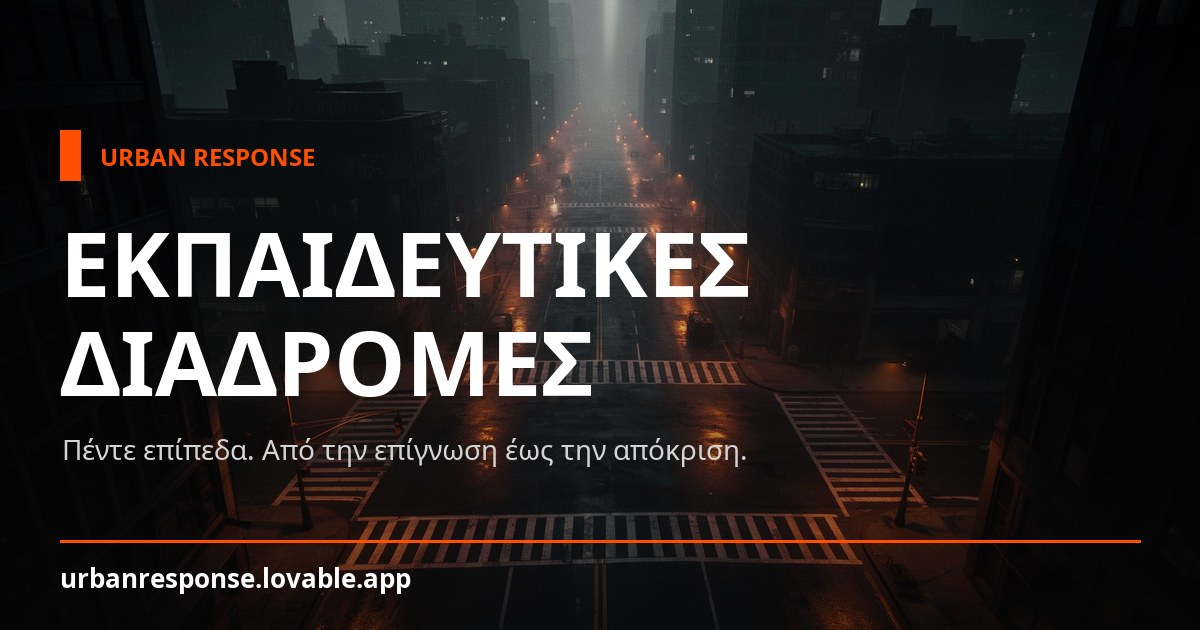
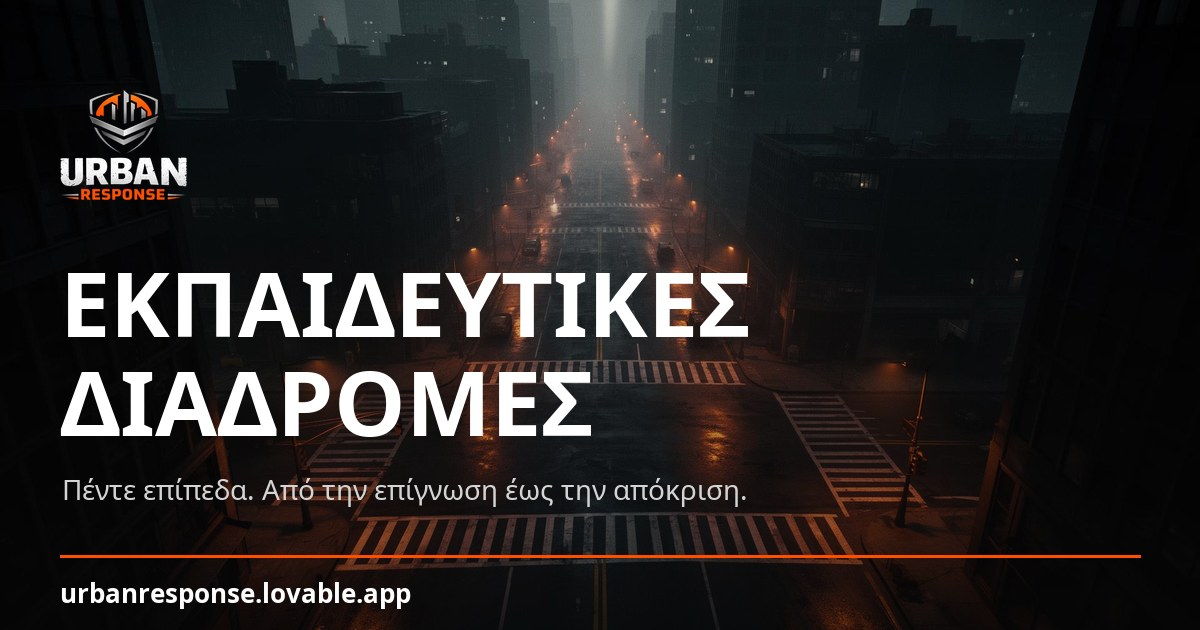
Changes

Changed region(s): [[0.0308, 0.3619, 0.6475, 0.8143], [0.0308, 0.8444, 0.9558, 0.9651], [0.0308, 0.1508, 0.2775, 0.3317]]

diff --git a/.lovable/plan.md b/.lovable/plan.md
@@ -1,20 +1,17 @@
-## Πρόβλημα
-Στο `og-training-tracks.jpg` τα ελληνικά («ΕΚΠΑΙΔΕΥΤΙΚΕΣ», «ΔΙΑΔΡΟΜΕΣ», υπότιτλος) εμφανίζονται ως κουτάκια. Μόνο το λατινικό "URBAN RESPONSE" και το "urbanresponse.lovable.app" βγήκαν σωστά.
+## Στόχος
+Προσθήκη του `src/assets/logo.png` στο OG banner `public/og-training-tracks.jpg` (1200×630), χωρίς να αλλάξει τίποτα άλλο.
 
-Αιτία: χρησιμοποίησα DejaVu μέσω PIL χωρίς σωστό Unicode rendering για τους ελληνικούς χαρακτήρες.
+## Τοποθέτηση
+- **Πάνω-αριστερά**, στη θέση του "URBAN RESPONSE" kicker.
+- Αντικαθιστά τον πορτοκαλί κατακόρυφο accent bar + το κείμενο "URBAN RESPONSE" (γιατί το logo τα περιέχει ήδη).
+- Ύψος logo ~70px, διατήρηση aspect ratio, padding 60px από αριστερά / 100px από πάνω.
 
-## Τι θα κάνω
-1. Κατεβάζω **Noto Sans** (regular + bold) — υποστηρίζει πλήρως ελληνικά και είναι ήδη η οικογένεια του project (Noto Sans Display headings, Inter body).
-2. Ξαναφτιάχνω το `public/og-training-tracks.jpg` (1200×630) με **ακριβώς το ίδιο layout**:
-   - ίδιο hero image (`hero-training-tracks.jpg`) με cover crop
-   - ίδιο gradient overlay (σκούρο αριστερά → πιο ανοιχτό δεξιά)
-   - πορτοκαλί accent bar + "URBAN RESPONSE" kicker
-   - τίτλος δύο γραμμών: **ΕΚΠΑΙΔΕΥΤΙΚΕΣ / ΔΙΑΔΡΟΜΕΣ** (τώρα αναγνώσιμα)
-   - υπότιτλος: «Πέντε επίπεδα. Από την επίγνωση έως την απόκριση.»
-   - κάτω πορτοκαλί γραμμή + `urbanresponse.lovable.app`
-3. Επαληθεύω ότι όλα τα γράμματα φαίνονται σωστά (QA με zoom στις τρεις γραμμές κειμένου) **πριν** σου το παραδώσω.
-4. Τα meta tags στο `index.html` δεν χρειάζονται αλλαγή — δείχνουν ήδη στο ίδιο path (`/og-training-tracks.jpg`).
+## Τι μένει ίδιο
+- Background (hero image + gradient overlay)
+- Τίτλος «ΕΚΠΑΙΔΕΥΤΙΚΕΣ / ΔΙΑΔΡΟΜΕΣ»
+- Υπότιτλος
+- Κάτω πορτοκαλί γραμμή + `urbanresponse.lovable.app`
+- Διαστάσεις 1200×630, meta tags στο `index.html`
 
-## Τι ΔΕΝ θα αλλάξει
-- Διαστάσεις (1200×630), background image, χρώματα, layout, meta tags.
-- Μόνο το font swap + re-render του κειμένου.
+## QA
+Zoom στην πάνω-αριστερή γωνία για να επιβεβαιωθεί ότι το logo φαίνεται καθαρά πάνω στο σκούρο gradient.
